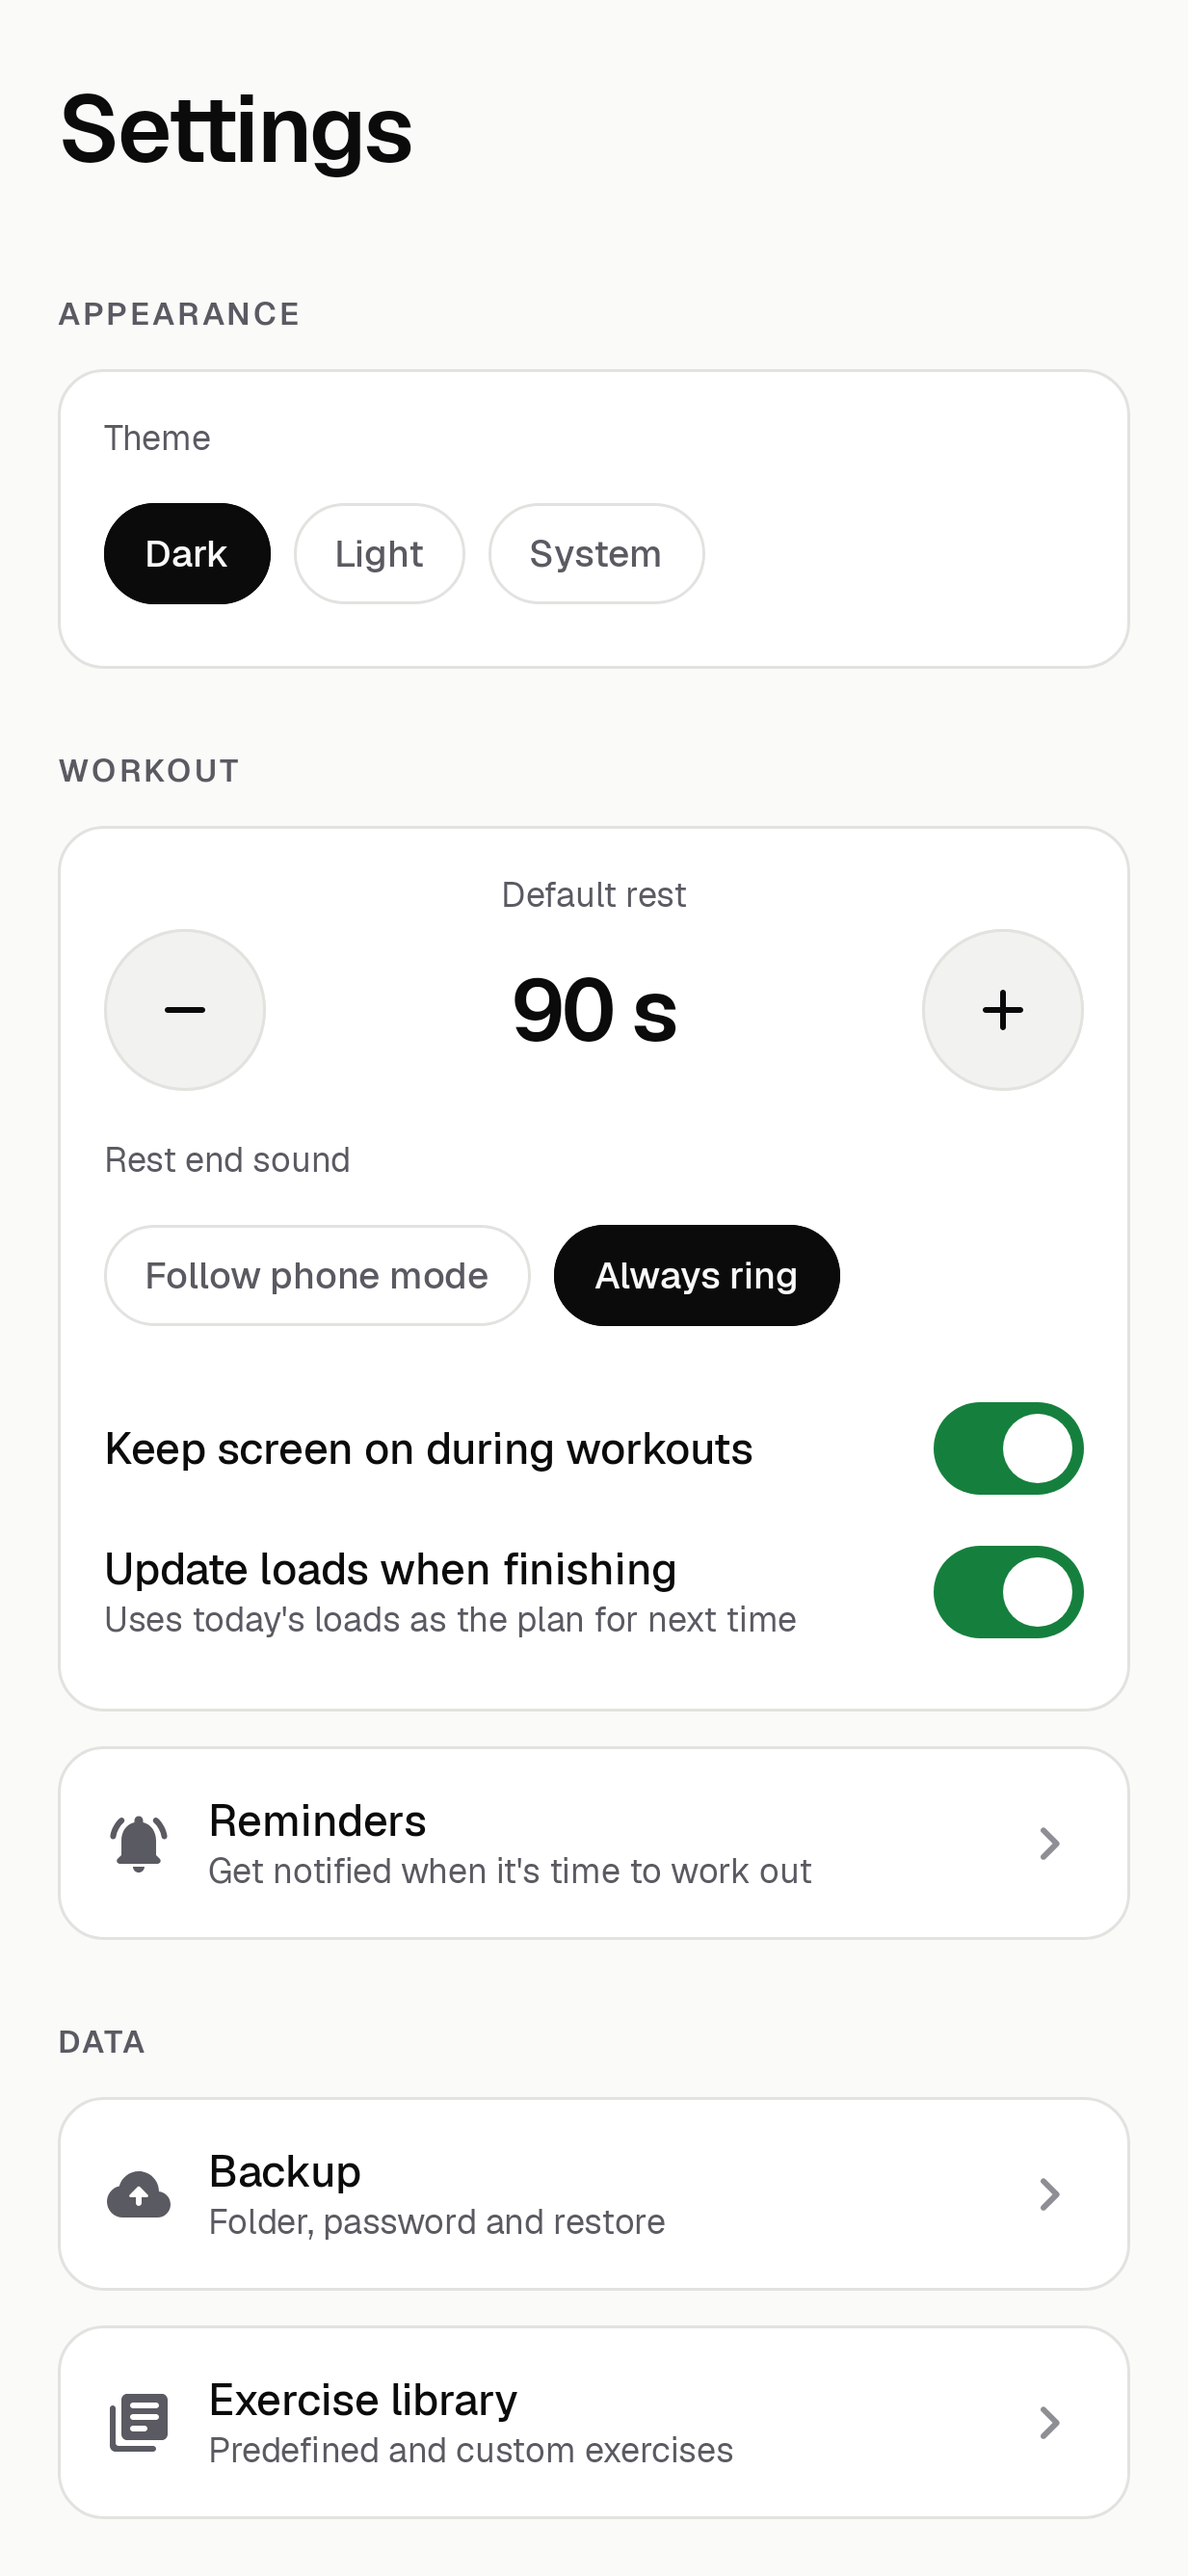
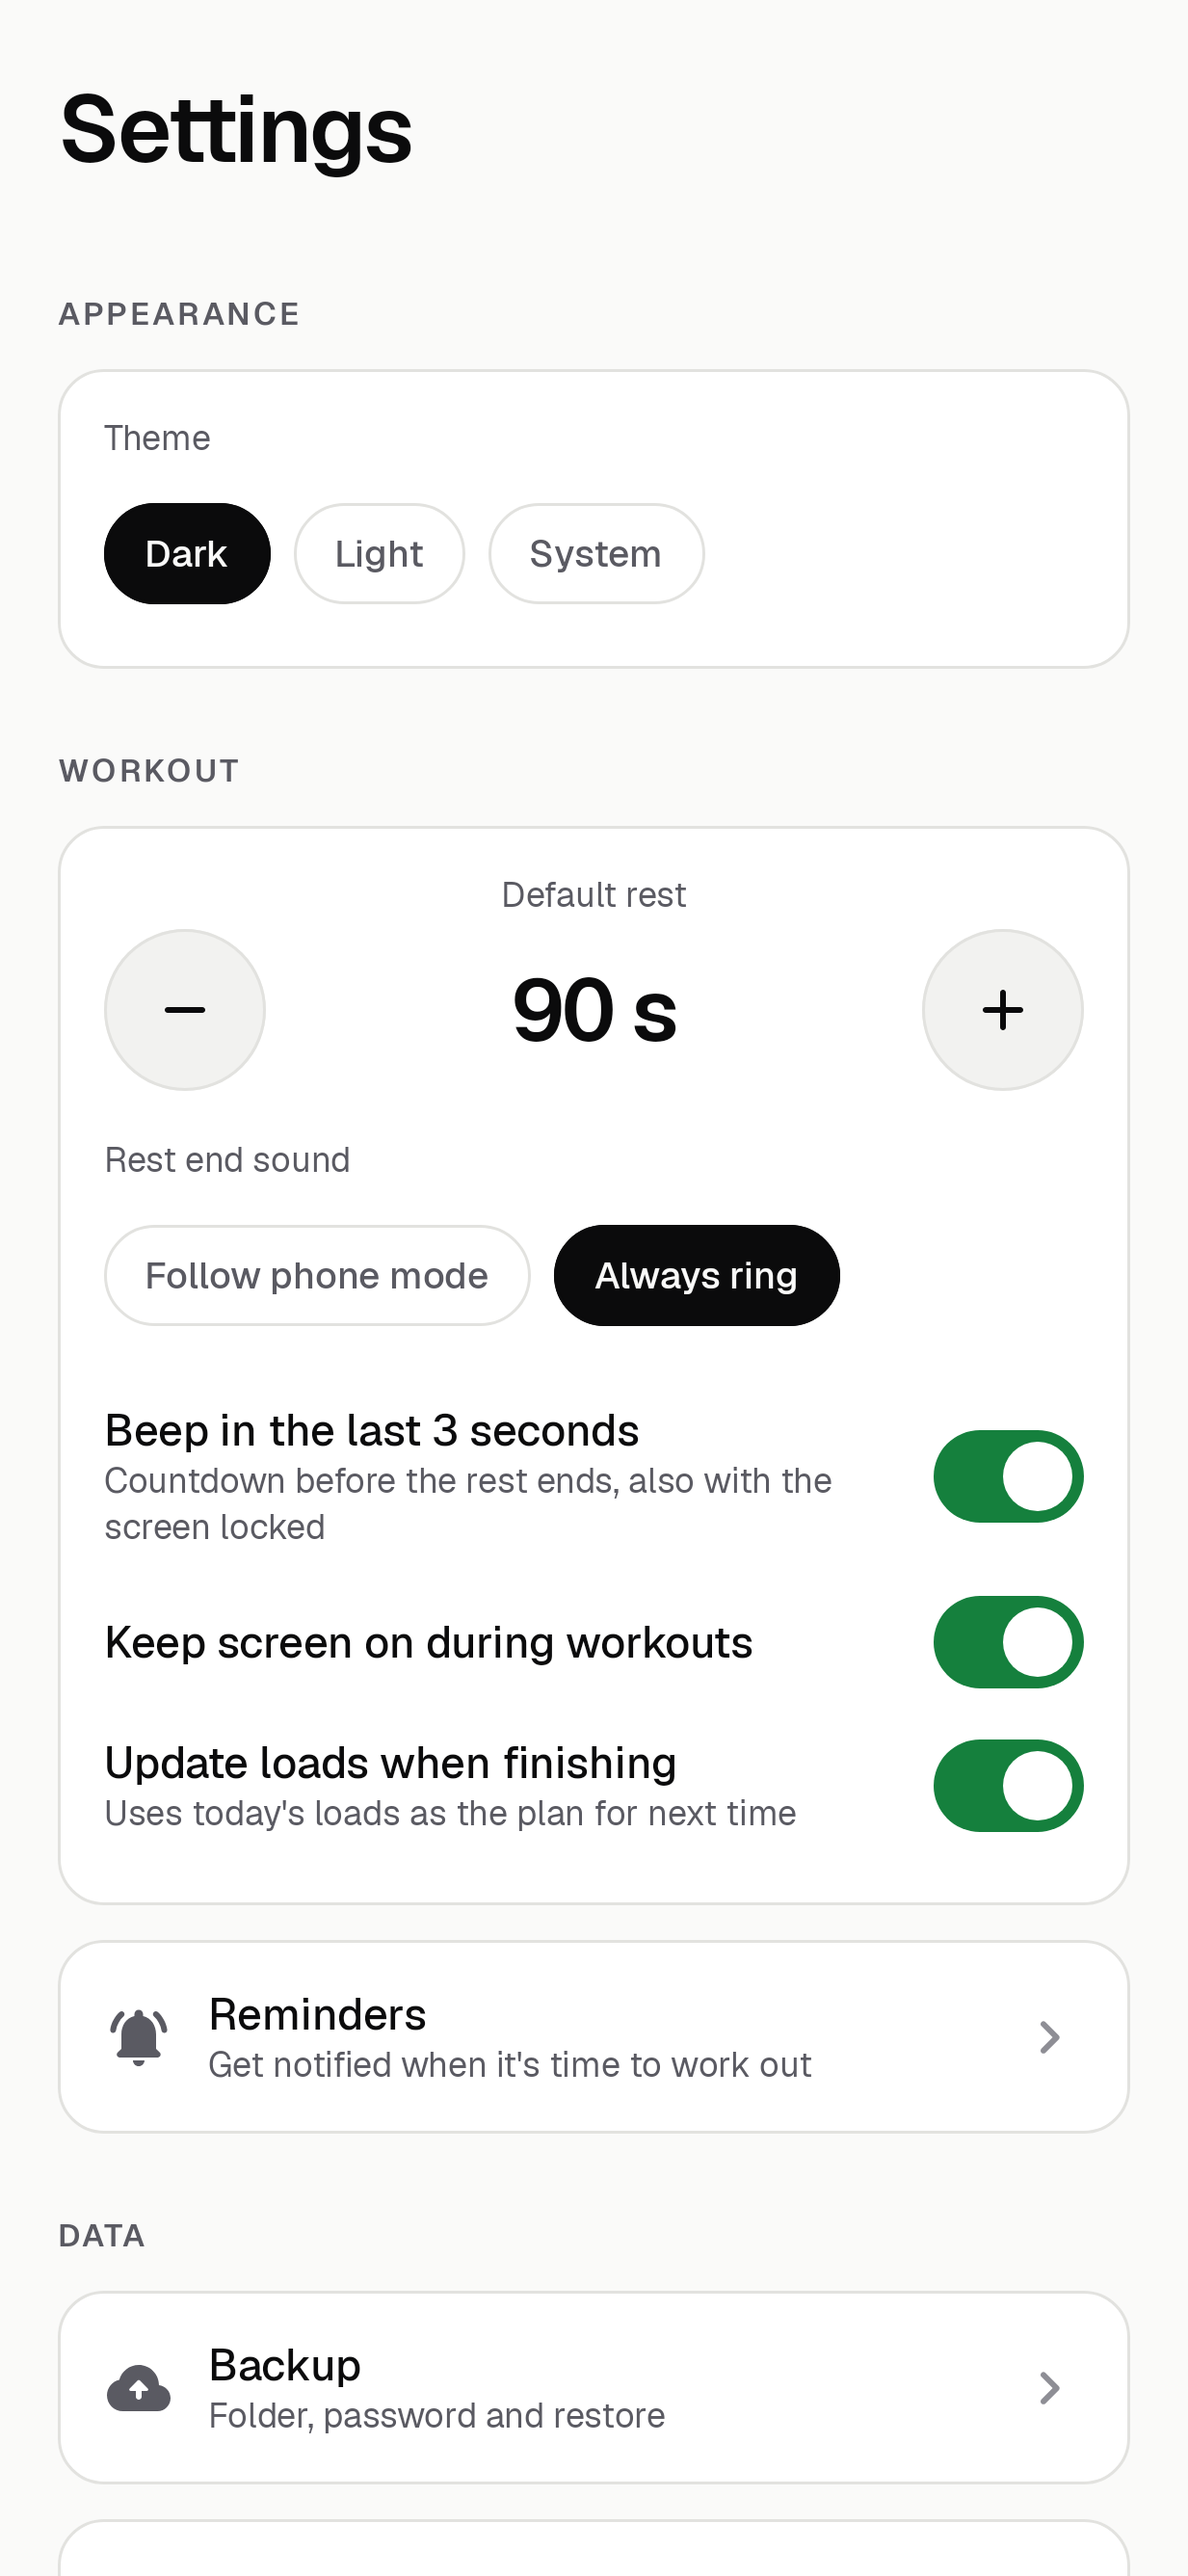
docs: describe live activities, GPS distance and the rest countdown

diff --git a/README.md b/README.md
@@ -11,8 +11,8 @@ A personal, offline Android app to plan workouts, run them with a reliable rest 
 - **Workouts:** create, edit, duplicate, reorder (drag) and delete exercise sequences, with sets, reps, rest, load and notes per exercise.
 - **Library:** 152 predefined exercises (in the device language), each with a line drawing of the start and end position. Accent-insensitive search, muscle-group filters and custom exercises with a photo from the gallery. A body map highlights the worked muscle group (also the picture of custom exercises without a photo), and *Watch how to do it* opens a video search in YouTube or the browser.
 - **Workout mode:** an immersive screen with sets, automatic rest, ±15 s, pause/resume, skip set or exercise, adjustable load and reps, and a summary before saving where you rate the intensity (low, medium or high) and can attach a photo (stored reduced).
-- **Reliable timer:** times come from persisted marks (wall clock + monotonic clock + boot count), never from UI counters. An exact alarm ends the rest with sound and vibration even with the screen locked, and by default it rings even with the phone on vibrate. The ongoing notification has quick actions, and an interrupted session resumes where it stopped.
-- **Other sports:** log swimming, cycling, indoor cycling, running, treadmill, walking, soccer, volleyball, basketball, beach tennis, muay thai, jiu-jitsu, boxing, yoga, pilates, stretching or a free activity you name, each with its figure, plus date, duration, distance, intensity, notes and a photo. They show in History and in the week on Home.
+- **Reliable timer:** times come from persisted marks (wall clock + monotonic clock + boot count), never from UI counters. An exact alarm ends the rest even with the screen locked: three beeps in the last 3 seconds, then MyFit's own sound and vibration (by default at alarm volume, so it rings even with the phone on vibrate). The ongoing notification has quick actions, and an interrupted session resumes where it stopped.
+- **Other sports:** log swimming, cycling, indoor cycling, running, treadmill, walking, soccer, volleyball, basketball, beach tennis, muay thai, jiu-jitsu, boxing, yoga, pilates, stretching or a free activity you name, each with its figure, plus date, duration, distance, intensity, notes and a photo. Log them afterwards or time them live with *Start timer*: the clock survives a locked screen or a killed app, and outdoor sports (running, walking, cycling, free) can measure distance with the phone's GPS, offline and without storing the route. They show in History and in the week on Home.
 - **History:** monthly calendar with training days, per-day workouts and activities, per-set details, intensity, and weekly/monthly summaries (workouts, activities, total time, frequency, exercises and sports).
 - **Progress:** assessments with weight, body fat and 14 circumferences, comparison between two dates (signed differences), per-measure charts (or *All* at once) and dated photos, including older ones, with side-by-side comparison.
 - **Backup:** an encrypted file (AES-256-GCM streaming, key derived from your recovery password) written to a folder you pick and keep in sync with Google Drive (or any cloud) through a sync app. Runs daily and after changes, keeps the last 7, and supports export and restore with integrity checks.
@@ -40,7 +40,7 @@ A personal, offline Android app to plan workouts, run them with a reliable rest 
 </p>
 <p>
   <img src="docs/screenshots/activity_swimming_dark.png" width="200" alt="Logging a sport">
-  <img src="docs/screenshots/activity_indoor_cycling_dark.png" width="200" alt="Indoor cycling with its drawing">
+  <img src="docs/screenshots/live_running_dark.png" width="200" alt="Live activity with GPS distance">
   <img src="docs/screenshots/session_detail_dark.png" width="200" alt="Session detail with intensity and photo">
   <img src="docs/screenshots/reminders_dark.png" width="200" alt="Workout reminders">
 </p>

diff --git a/docs/ARCHITECTURE.md b/docs/ARCHITECTURE.md
@@ -30,6 +30,7 @@ Dependency rule: `domain` knows nothing about Android, except for the Tink libra
 | `platform/session` | `SessionController`, `WorkoutService`, alarm, receivers, notifications |
 | `platform/backup` | `BackupScheduler`, workers, failure notification, image cleanup |
 | `platform/reminder` | reminder alarms, notification, re-arming on start/boot/time change |
+| `platform/activity` | live activity: `LiveActivityController`, `ActivityTrackingService` (chronometer, GPS) |
 
 ## Data
 
@@ -54,6 +55,7 @@ body_assessment   body_photo   activity
 - `Activity` is logged after the fact (no live timer): it has no sets, so it lives in its own table and joins workouts only in History and the Home week (`HistoryCalculator.activeDays`, `summarize(..., activities)`).
 - Figures: every `Sport` has a Material icon; indoor cycling and treadmill reuse the Workout Guide drawings (`wg-cycling`, `wg-running`).
 - Distance is stored in km; swimming is typed and shown in meters.
+- **Live timing:** `LiveActivity` (marks, pauses, GPS distance) is kept in memory and in its own DataStore (`live_activity`, not backed up), written on every action and at most every 10 s for GPS updates. `ActivityTrackingService` (foreground, types `health` and `location`) shows the chronometer and pause/resume and, for outdoor sports with location permission, asks `LocationManager` for GPS fixes every 2 s. `GpsDistance` drops fixes worse than 30 m, steps under 4 m and jumps faster than the sport allows; pausing clears the anchor so a paused stretch never counts. Finishing saves an `Activity` (minutes rounded up, km) and opens it for intensity, photo and notes. Only the distance is kept, never the route.
 
 ## Reminders
 
@@ -85,7 +87,8 @@ body_assessment   body_photo   activity
 
 **Background**:
 - **Ongoing notification**: a foreground `WorkoutService` of type `health` (the API 34+ requirement is met by `HIGH_SAMPLING_RATE_SENSORS`, a normal permission) shows the system chronometer counting down during rest and counting up for the rest of the workout, with the "Complete set" and "Skip rest" actions. If the user swipes the notification away, it comes back.
-- **Rest end alarm**: uses `AlarmManager.setAlarmClock`, the only exact alarm immune to Doze and One UI optimizations. `RestEndHandler` ignores stale alarms and posts the notification with sound. There are two channels: by default the alert uses alarm audio and always rings, even with the phone on vibrate or silent; the other follows the phone's ringer mode (*Settings → Rest end sound*).
+- **Rest end alarm**: uses `AlarmManager.setAlarmClock`, the only exact alarm immune to Doze and One UI optimizations, plus a second one 3 s earlier for the countdown. `RestEndHandler` ignores stale alarms; the countdown alarm beeps at 3, 2 and 1 s left (re-reading the session each second), and the end alarm posts a silent heads-up notification with vibration and plays MyFit's own "go" sound.
+- **Sounds** (`RestSoundPlayer`, SoundPool): `res/raw/rest_tick.wav` and `rest_go.wav`, synthesized by `tools/rest_sounds.py` (no third-party audio). They play on the alarm stream by default (heard on vibrate or silent) or on the notification stream with *Follow phone mode*. The notification channel is `rest_end_v2`; the 1.4 channels, which played the phone's sound, are deleted.
 - **Recovery**: if the process dies, the session remains in the database. When the app returns to the foreground, it calls `resync()`, which re-arms the alarm and the service, and shows the "Resume" bar.
 
 ## Backup

diff --git a/SPEC.md b/SPEC.md
@@ -77,7 +77,7 @@ MyFit is a single-user app: fast during the workout, 100% local, with encrypted 
 12. MUST follow the flow: complete set (1 tap) → automatic rest → visual and audible alert when it ends → next set → next exercise → finish.
 13. MUST allow pausing/resuming, skipping a set, skipping an exercise, adjusting the set's load and reps, changing the rest (including ±15 s during the rest) and ending early.
 14. MUST keep timers correct with the app in the background, the screen locked, the process killed by the system or after a device restart. Time MUST be derived from persisted timestamps, never from UI counters.
-15. MUST signal the end of rest with a notification with sound and vibration even with the app closed (by default the sound plays even with the phone on vibrate), and show an ongoing workout notification with the timer and quick actions.
+15. MUST signal the end of rest with the app's own sound and vibration even with the app closed (by default at alarm volume, so it plays even with the phone on vibrate), SHOULD beep in the last 3 seconds of rest (can be turned off), and show an ongoing workout notification with the timer and quick actions.
 16. MUST persist every session step immediately and offer exact resumption when the app is reopened.
 17. When finishing, MUST automatically save: date, start and end time, duration (excluding pauses), workout, exercises, completed/skipped sets, and the reps and loads performed.
 18. SHOULD offer, when finishing, to update the workout's loads with the ones used in the session.
@@ -86,7 +86,7 @@ MyFit is a single-user app: fast during the workout, 100% local, with encrypted 
 ### History and calendar
 
 19. MUST show a monthly calendar with workout days highlighted.
-19a. MUST allow logging other sports after the fact (swimming, cycling, indoor cycling, running, treadmill, walking, soccer, volleyball, basketball, beach tennis, muay thai, jiu-jitsu, boxing, yoga, pilates, stretching, or a free activity named by the user), each with a figure, date, duration, optional distance, intensity, notes and photo; they appear in the calendar, the day list, the summaries and the Home week.
+19a. MUST allow logging other sports after the fact (swimming, cycling, indoor cycling, running, treadmill, walking, soccer, volleyball, basketball, beach tennis, muay thai, jiu-jitsu, boxing, yoga, pilates, stretching, or a free activity named by the user), each with a figure, date, duration, optional distance, intensity, notes and photo; they appear in the calendar, the day list, the summaries and the Home week. SHOULD also allow timing an activity live (pause/resume, surviving a locked screen or a killed app) and, for outdoor sports and with permission, measuring distance with the phone's GPS without internet and without storing the route.
 20. When a day is tapped, MUST list its sessions with duration and allow opening the detail (exercises, sets, reps, loads).
 21. MUST show weekly and monthly summaries: number of workouts and activities, total time, average weekly frequency, exercises performed and sports practiced.
 22. History MUST stay intact even if the source workout or exercise is later edited or deleted.

diff --git a/docs/TESTING.md b/docs/TESTING.md
@@ -45,6 +45,7 @@ UI labels are quoted in English; on a phone set to Portuguese, the same labels a
 - [ ] Complete a set and **lock the screen** during the rest: at the end, the phone rings and vibrates, and the notification shows "Rest complete".
 - [ ] On the lock screen, the notification shows the timer and the "Skip rest" button works.
 - [ ] With the phone on **vibrate** and *Settings → Rest end sound → Always ring* (the default): the alert rings anyway, at the alarm volume.
+- [ ] The last 3 seconds of rest beep (also with the screen locked), then MyFit's own two-note sound plays, not the phone's notification sound. *Settings → Beep in the last 3 seconds* turns the beeps off.
 - [ ] With *Follow phone mode* and the phone on vibrate: the alert only vibrates.
 - [ ] Alarm icon in the status bar during the rest: expected (exact alarm).
 
@@ -59,6 +60,9 @@ UI labels are quoted in English; on a phone set to Portuguese, the same labels a
 - [ ] The session row shows the intensity; the session detail shows the photo, and intensity and photo can be changed or removed there.
 - [ ] "+ Activity" on a past day: log swimming (distance in m), indoor cycling (drawing at the top) and a "Free" one with your own name. They appear on that day, mark the calendar and count in Activities, Total time and the Sports card. Tap one to edit or delete it.
 - [ ] Home: "Log activity" opens the same screen; the week counts the activity days and their time.
+- [ ] **Live:** pick Running → *Start timer* → allow notifications and location. Walk outdoors for a few minutes with the screen locked: the notification counts up and shows the km. Pause/resume from the notification. *Finish*: the activity is saved with the time and distance and opens for intensity and photo.
+- [ ] Start one, close the app from recents and reopen: Home shows "… in progress" with the right time.
+- [ ] Indoor cycling or swimming: no GPS option, only the time.
 
 ### 6. Progress
 - [ ] Log two assessments on different dates (edit the date at the top). Weight with a decimal comma.
